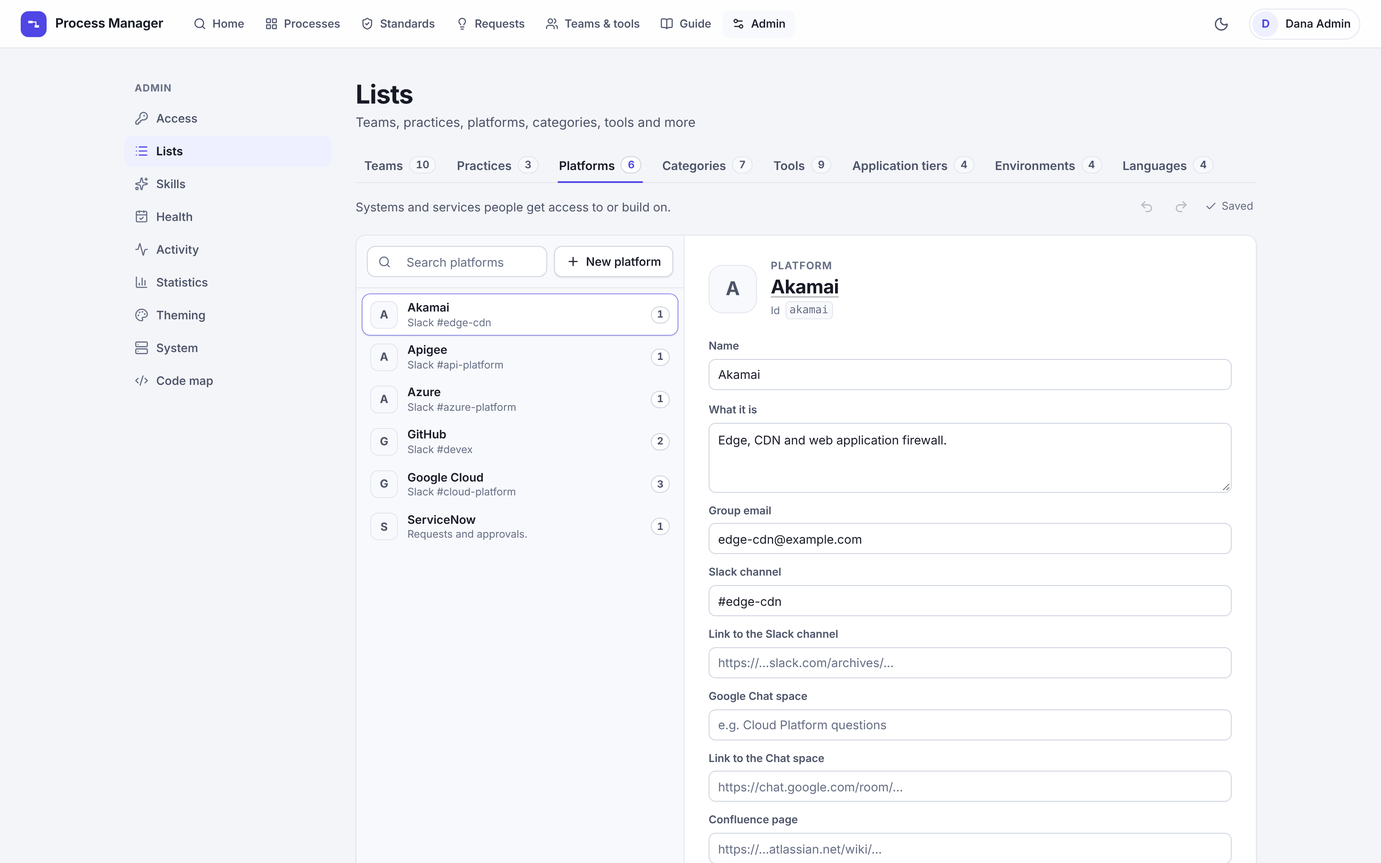
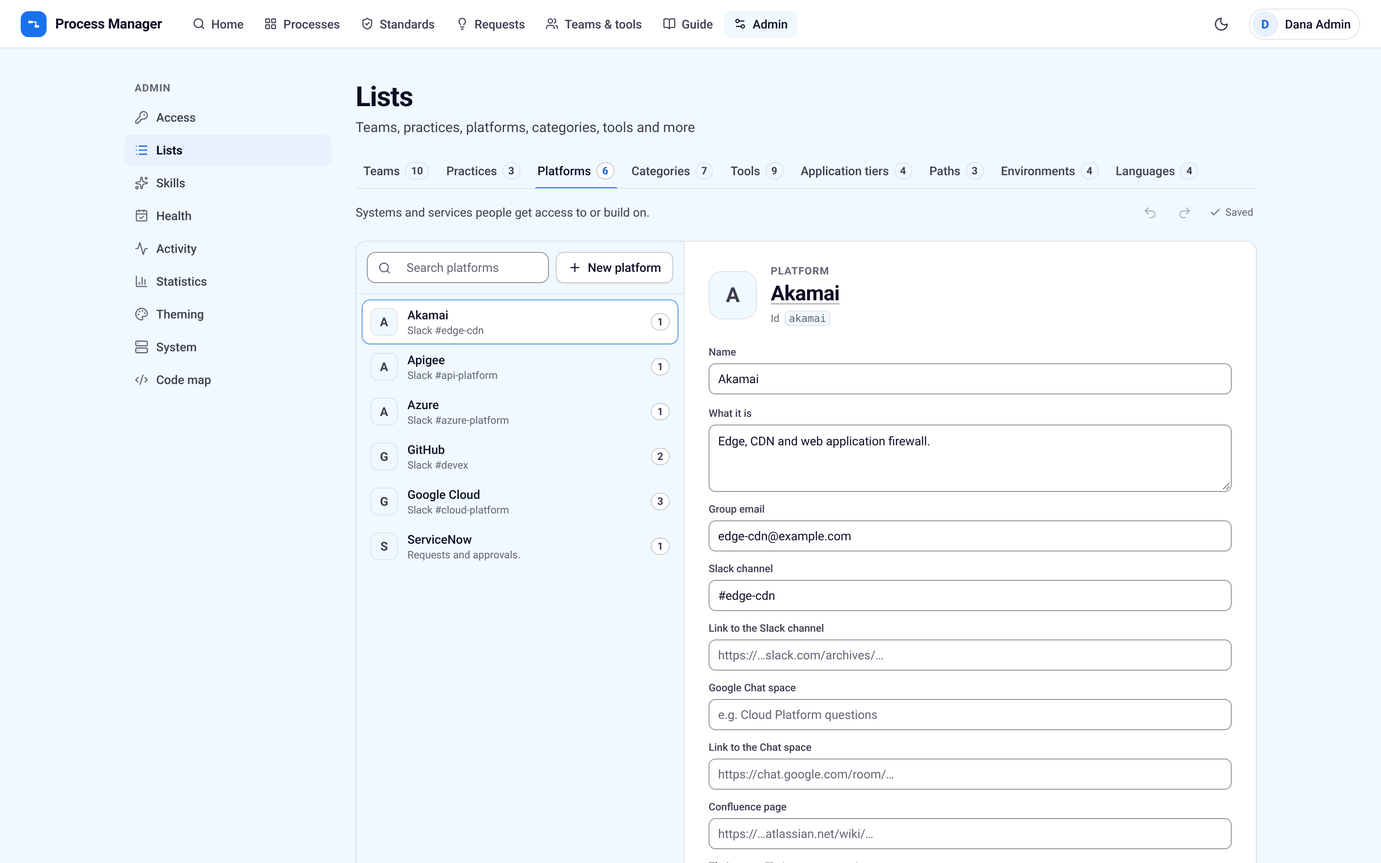
Viewing the portal as another person, the path of a process or standard, the designer's look
An admin can view the portal as any person, or as a reader with no roles: the
server answers every request as that person and refuses every change; a band
says who is viewed; starting and stopping are in Activity.

Processes and standards can name the paths they are meant only for (Greenfield,
Brownfield, Paved path, a ninth managed list with pictures and other names):
shown on cards, rows and the page, a filter, a choice under My application, in
skills, the search by meaning and the MCP server.

The designer's palette and Roboto are the default look, with a fixed type scale
and tints of Ocean and Sky; every colour is managed in Theming and the map
follows the look. Documentation, browser tests and screenshots brought in line.

Claude-Session: https://claude.ai/code/session_011qCrvi8b2eDbxEg6hLHvxQ

diff --git a/src/components/GuidePage.tsx b/src/components/GuidePage.tsx
@@ -255,7 +255,7 @@ export function GuidePage() {
           <dl className="guide-dl">
             <div><dt>Above the name</dt><dd><b>All processes</b>, the way back to the list; the “Process” tag, its category and “Owned by” its team, whose name opens the team’s page; and marks for what needs attention: “Draft”, “Retired”, and for the people who look after it “First review due …” or “Review due …” in amber, “Review overdue since …” in red.</dd></div>
             <div><dt>The facts</dt><dd>One line under the summary: how binding it is (Mandatory, Recommended or Optional, with its bars; point at it for what that means), the typical time, how many of its steps are yours, such as “5 of 10 steps are yours”, and how many others take part; then the platform and practice it belongs to (each name opens its page) and which <b>application tiers</b>, <b>environments</b> and <b>programming languages</b> it applies to. Use Tier, Environment and Language in the filters of the list to hide what does not apply to you; your choice is remembered.</dd></div>
-            <div><dt>Which path is this for</dt><dd>At the end of the facts. A process made for particular paths shows every path of the portal as a lane of one small road, with its own lanes edged, in bold and ticked (no tick on a phone) and the others drawn in outline; point at a lane for what the path is, and a screen reader hears “This process is for Greenfield and Paved path.” A process that names no path, the usual case, shows one quiet fact instead: a signpost and “Any path”, as it applies whatever the path.</dd></div>
+            <div><dt>Which path is this for</dt><dd>At the end of the facts. A process made for particular paths shows every path of the portal as a lane of one small road on the line of the facts, no taller than the facts beside it, with its own lanes edged, in bold and ticked (no tick on a phone) and the others drawn in outline; the editing screen’s preview shows the same road, and on a phone the pictures of its paths instead (one path also by its name); point at a lane for what the path is, and a screen reader hears “This process is for Greenfield and Paved path.” A process that names no path, the usual case, shows one quiet fact instead: a signpost and “Any path”, as it applies whatever the path.</dd></div>
             <div><dt>A quiet line</dt><dd>“Content changed …”, when what it says last changed (point at it: the list of versions shows every time it was stored, also when it was imported or confirmed in a review); “Reviewed …” with the date of the last review, or “First review due …” while its first review is not near yet, or else “Not reviewed yet” (a review that is due or overdue is already a mark at the top, with its date); and the <b>version</b>: press it to see who changed what and when, by name.</dd></div>
           </dl>
           <p>If you may change the process, or write drafts of it as a member of its platform or practice, the header has <b>Edit</b>, its main button, which opens the editing screen; if you look after it, <b>Mark as reviewed</b> (see <b>Life-cycle and reviews</b>), a quiet button until a review is due or overdue, when it is marked in amber. Nothing else on the page changes the process.</p>
@@ -420,7 +420,7 @@ export function GuidePage() {
             <div><dt>Deleting a step</dt><dd>The bin at the top of its fields deletes it at once, without a question. Just after a step is selected the bin is unavailable for a moment (it looks faded, and pointing at it says “Delete step (available in a moment)”), so a double press cannot delete the next step too. A short message says what happened, with long names cut off, such as “Step “Start the production deployme…” deleted.”, and offers <b>Undo</b>; Undo on the bar works too. The step that took its place is selected, in the outline, so you can go on with the keyboard. The steps before it are joined to what came after it. An answer of a decision keeps its name: an answer that led to the deleted step now leads where that step led (when it had several ways on, the one that carried the flow on). An answer that led to a deleted step that ended the flow is removed. If two answers then lead to the same step, the checker asks you to let each lead somewhere else.</dd></div>
             <div><dt>What the message says</dt><dd>After a move or a delete, the message also says, one line each, everything else that changed in the flow, and where things go now by the number and name of the step: ““No” of “Is it a tier 0 service?” now goes to step 9 “Start the production deployment”.”, ““Yes” of “Release healthy?” is removed: it led to the deleted step, which ended the flow.”, ““Other” of “Change approved?” is new: it goes to step 6 “Roll out to 10%”.”, “Nothing leads to step 4 “Fix the request” any more.” or ““Close the change record” now leads to step 14 “Change approved?”.” It shows at most three such lines; beyond that the third says “And 2 more: see “What comes next” of the steps on the map.” Only one message is shown at a time: a new one replaces the one before, and they end when you leave the editing screen.</dd></div>
             <div><dt>About</dt><dd>Name and summary, owning team and typical lead time. Below, folded, each with a line that says what is set: <b>What it belongs to</b> (category, platform, practice) and how binding it is; <b>Which path it is for</b>; <b>Where it applies</b> (tiers, environments, languages) and tags; and <b>Review</b>, the review rhythm. A folded group opens by itself when the checker finds something to fix in it.</dd></div>
-            <div><dt>Which path it is for</dt><dd>Chips with the picture of each path, like the tiers: <b>Any path</b> and one per path. Choose a path only when the process is meant only for that kind of work, such as setting up something new, or when it is itself the ready-made way; something everyone follows names none, which is the usual case and means it applies whatever the path. A process that names a path is hidden from readers whose application is on another path. Folded, the line shows the chosen pictures with their names, or “Any path”; what readers will see shows the road, or “Any path”, under the name. The same section is under About of a standard.</dd></div>
+            <div><dt>Which path it is for</dt><dd>Chips with the picture of each path, like the tiers: <b>Any path</b> and one per path. Choose a path only when the process is meant only for that kind of work, such as setting up something new, or when it is itself the ready-made way; something everyone follows names none, which is the usual case and means it applies whatever the path. A process that names a path is hidden from readers whose application is on another path. Folded, the line shows the chosen pictures with their names, or “Any path”; what readers will see shows the road, or “Any path”, on the line of the facts under the name (on a phone the pictures of the paths, one path also by its name). The same section is under About of a standard.</dd></div>
             <div><dt>The other parts</dt><dd><b>Before you start</b>: the prerequisites, each with a name and a few words about it, in boxes that grow with the text, and possibly provided by another process; Enter in a name adds the next, Backspace in an empty one removes it. <b>Who takes part</b>: the lanes, the first always the reader; each participant has a name and a few words about them, in a box that grows with the text, and under them how many steps they have, the arrows to move them a lane higher or lower on the map, and <b>Remove</b>; a lane that still has steps cannot be removed. <b>Links and resources</b>, each link a block with its number, its kind and a cross to remove it (“Remove this link”) on top, then <b>Name</b>, <b>Address</b> and <b>What it does for the reader</b>, whose labels stay when the field is filled in; and <b>Standards it helps to meet</b>. Readers see both under “Before you start”.</dd></div>
           </dl>
         </Section>

diff --git a/src/components/FlowView.tsx b/src/components/FlowView.tsx
@@ -73,6 +73,34 @@ export function FlowView({ process, selectedId, done, feedback, onSelect, onInse
   const [drag, setDrag] = useState<string | null>(null);
   const [dropLane, setDropLane] = useState<string | null>(null);
   const scroller = useRef<HTMLDivElement>(null);
+  // The hint gives way first when the legend and the tools need its room: its words go (they stay its
+  // tooltip), the hand stays. Worked out from the room the line has, so that it does not flicker.
+  const hint = useRef<HTMLSpanElement>(null);
+  useLayoutEffect(() => {
+    const el = hint.current, head = el?.parentElement;
+    if (!el || !head || typeof ResizeObserver === "undefined") return;
+    const check = () => {
+      if (!el.hasAttribute("data-cut")) el.dataset.full = String(el.scrollWidth);
+      const cs = getComputedStyle(head);
+      const gap = parseFloat(cs.columnGap) || 0;
+      let others = 0, n = 0;
+      for (const c of Array.from(head.children) as HTMLElement[]) {
+        if (c === el) continue;
+        n++;
+        if (c.classList.contains("legend")) {
+          // the legend as it is on one line
+          const items = Array.from(c.children) as HTMLElement[], g = parseFloat(getComputedStyle(c).columnGap) || 0;
+          others += items.reduce((sum, i) => sum + i.getBoundingClientRect().width, 0) + g * Math.max(0, items.length - 1);
+        } else others += c.getBoundingClientRect().width;
+      }
+      const room = head.clientWidth - (parseFloat(cs.paddingLeft) || 0) - (parseFloat(cs.paddingRight) || 0) - others - gap * n;
+      el.toggleAttribute("data-cut", room < Number(el.dataset.full || 0));
+    };
+    check();
+    const ro = new ResizeObserver(check);
+    ro.observe(head);
+    return () => ro.disconnect();
+  });
   const [panning, setPanning] = useState(false);
   // Dragging the map with the mouse moves it around (a picture too). Touch screens scroll it
   // natively, in both directions; a picture is as high as its drawing, so a swipe up or down
@@ -341,8 +369,9 @@ export function FlowView({ process, selectedId, done, feedback, onSelect, onInse
             <span className="kbd">+</span> on an arrow inserts a step{touch ? "" : " · drag a block to another lane"} · <span className="flow-tip-loop"><svg width="20" height="8" aria-hidden="true"><path d="M0,4 H20" className="edge back" /></svg>loop back</span>
           </p>
         </>)}
+        {/* the hint stands on its own between the legend and the tools, so that it can give way first (styles.css) */}
+        {picture !== "print" && legend && picture !== "inline" && <span ref={hint} className="map-pan-hint" title={touch ? `${panHint(true).move} · ${panHint(true).zoom}` : `Drag to move · ${zoomKey()} + scroll to zoom`}><Hand size={14} aria-hidden="true" /><span className="map-pan-words">{touch ? `${panHint(true).move} · ${panHint(true).zoom}` : <>Drag to move · <kbd className="key">{zoomKey()}</kbd> + scroll to zoom</>}</span></span>}
         {picture !== "print" && <div className="map-tools">
-          {legend && picture !== "inline" && <span className="map-pan-hint"><Hand size={14} aria-hidden="true" />{touch ? `${panHint(true).move} · ${panHint(true).zoom}` : <>Drag to move · <kbd className="key">{zoomKey()}</kbd> + scroll to zoom</>}</span>}
           <div className="zoom" role="group" aria-label="Zoom" title={picture === "inline" ? (touch ? `${panHint(true).move} · ${panHint(true).zoom}` : `Drag to move · ${zoomKey()} + scroll to zoom`) : undefined}>
             <button className="btn small ghost" onClick={() => fit()} title="Show the whole flow"><Maximize2 size={14} />Fit</button>
             <button className="icon-btn" onClick={() => step(-1)} aria-label="Zoom out"><Minus size={16} /></button>

diff --git a/src/components/Lists.tsx b/src/components/Lists.tsx
@@ -113,7 +113,7 @@ export const nothingToChoose = (options: Option[]) => options.length > 0 && opti
  * arrows move between the options; Escape closes it and returns to the button. When no option
  * would give anything, it says why (`empty`) instead of showing options that cannot be used.
  */
-export function FilterDropdown({ name, label, options, onToggle, atLeast, single, hint, empty }: {
+export function FilterDropdown({ name, label, options, onToggle, atLeast, single, hint, empty, within }: {
   name: string; label?: string; options: Option[]; onToggle: (value: string) => void; atLeast?: boolean;
   /** One choice of all (radio buttons), as "My application" is one application. */
   single?: boolean;
@@ -121,6 +121,8 @@ export function FilterDropdown({ name, label, options, onToggle, atLeast, single
   hint?: string;
   /** Why there is nothing to choose, when no option would give anything. */
   empty?: string;
+  /** Where the list stands, said first in the button's name when the same list stands twice ("My application"). */
+  within?: string;
 }) {
   const [open, setOpen] = useState(false);
   const [focusFirst, setFocusFirst] = useState(false);
@@ -154,7 +156,7 @@ export function FilterDropdown({ name, label, options, onToggle, atLeast, single
   return (
     <div className={`filter-dd ${open ? "open" : ""} ${n ? "chosen" : ""} ${dead ? "nothing" : ""}`.trim()} data-filter={name}>
       <button ref={button} type="button" className="filter-dd-button" aria-expanded={open} aria-controls={`${id}-list`}
-        aria-label={`${title}: ${summary}`} onClick={() => setOpen(!open)} onKeyDown={onButtonKey}>
+        aria-label={`${within ? `${within}, ` : ""}${title}: ${summary}`} onClick={() => setOpen(!open)} onKeyDown={onButtonKey}>
         <span className="filter-dd-name">{title}</span>
         <span className="filter-dd-value">{summary}</span>
         {n > 1 && <span className="filter-dd-n" aria-hidden="true">{n}</span>}
@@ -259,7 +261,7 @@ export function FilterPanel({ id, open, keys, labels, options, onToggle, flags, 
           <div className="filter-rows">
             {shownKeys.map((k) => (
               <FilterDropdown key={k} name={k} label={labels?.[k] ?? (k === "rigour" ? rigourFilterName(subject) : undefined)} options={named(k)} onToggle={(v) => onToggle(k, v)} atLeast={atLeast} hint={FILTER_HINT[k]}
-                empty={emptyFilterText(k, subject, total)} />
+                empty={emptyFilterText(k, subject, total)} within={hasApp && (PROFILE_KEYS as readonly string[]).includes(k) ? "Narrow down" : undefined} />
             ))}
           </div>
         </div>
@@ -279,7 +281,7 @@ export function FilterPanel({ id, open, keys, labels, options, onToggle, flags, 
               <p className="filter-profile-note">Shows only what applies to your application, here and on every process and standard. Remembered in this browser.</p>
               <div className="filter-rows">
                 {PROFILE_KEYS.map((k) => (
-                  <FilterDropdown key={k} name={k} label={PROFILE_LABEL[k]} options={profileOptions[k] ?? []} single hint={PROFILE_HINT[k]}
+                  <FilterDropdown key={k} name={k} label={PROFILE_LABEL[k]} options={profileOptions[k] ?? []} single hint={PROFILE_HINT[k]} within={shownKeys.includes(k as never) ? "My application" : undefined}
                     onToggle={(v) => setProfile(k, v)} atLeast={atLeast} empty={emptyFilterText(k, subject, total)} />
                 ))}
               </div>

diff --git a/e2e/paths.spec.ts b/e2e/paths.spec.ts
@@ -228,7 +228,7 @@ test("the Path filter: made for a path, or not tied to one; in the address, and 
   await signIn(page, SAM);
   await open(page, "/processes");
   const panel = page.getByRole("complementary", { name: "Filters" });
-  const button = panel.locator(".filter-dds").getByRole("button", { name: /^Path:/ });
+  const button = panel.locator(".filter-dds").getByRole("button", { name: /^(?:Narrow down, )?Path:/ });
   await button.click();
   const list = button.locator("xpath=..").locator(".filter-dd-list");
   await expect(list.locator(".filter-dd-hint")).toHaveText("Shows what is made for the path you choose; what is for any path is left out. To see everything that applies to your application's path, choose it under My application.");
@@ -250,12 +250,12 @@ test("the Path filter: made for a path, or not tied to one; in the address, and 
   await other.goto("/#/processes?path=paved-path");
   await expect(other.locator(".card .card-title")).toHaveCount(4);
   expect((await other.locator(".card .card-title").allInnerTexts()).sort()).toEqual(["Onboard an API to Apigee", "Request a GCP project", "Request a repository", "Request an Azure landing zone"]);
-  await expect(other.getByRole("complementary", { name: "Filters" }).locator(".filter-dds").getByRole("button", { name: /^Path:/ })).toHaveAccessibleName(/^Path: Made for Paved path/);
+  await expect(other.getByRole("complementary", { name: "Filters" }).locator(".filter-dds").getByRole("button", { name: /^Narrow down, Path:/ })).toHaveAccessibleName(/^Narrow down, Path: Made for Paved path/);
   // in the search, the same filter from the address
   await other.goto("/#/search?q=gcp&path=paved-path");
   await expect(other.locator(".card .card-title")).toHaveCount(2); // Infrastructure as code, found for "gcp" too, names no path
   expect((await other.locator(".card .card-title").allInnerTexts()).sort()).toEqual(["Onboard an API to Apigee", "Request a GCP project"]);
-  await expect(other.getByRole("complementary", { name: "Filters" }).locator(".filter-dds").getByRole("button", { name: /^Path:/ })).toHaveAccessibleName(/^Path: Made for Paved path/);
+  await expect(other.getByRole("complementary", { name: "Filters" }).locator(".filter-dds").getByRole("button", { name: /^Narrow down, Path:/ })).toHaveAccessibleName(/^Narrow down, Path: Made for Paved path/);
   await other.close();
 });
 
@@ -265,7 +265,7 @@ test("My application › Path hides what is made only for other paths and keeps 
   await expect(titles(page)).toHaveCount(7);
   await openApplication(page);
   const app = page.getByRole("complementary", { name: "Filters" }).locator(".filter-app");
-  const path = app.getByRole("button", { name: /^Path:/ });
+  const path = app.getByRole("button", { name: /^My application, Path:/ });
   await path.click();
   await expect(path.locator("xpath=..").locator(".filter-dd-hint")).toHaveText("Shows what applies to an application on this path: what is made for it and what is for any path. What is made only for other paths is hidden.");
   await path.click();

diff --git a/src/styles.css b/src/styles.css
@@ -359,9 +359,19 @@ a.btn { color: var(--action-other, var(--accent)); }
 .block.done .block-num { background: var(--good-fill); color: var(--good-ink); }
 .block-add { position: absolute; right: -12px; top: 50%; margin-top: -12px; width: 24px; height: 24px; display: grid; place-items: center; border-radius: 50%; background: var(--accent-fill, var(--accent)); color: var(--accent-ink); box-shadow: var(--shadow-2); opacity: 0; transform: scale(.7); transition: opacity .12s, transform .12s; z-index: 5; }
 .block:hover .block-add, .block-add:focus-visible { opacity: 1; transform: scale(1); }
-.flow-head { display: flex; align-items: center; justify-content: space-between; flex-wrap: wrap; gap: 8px 16px; padding: 8px 10px 8px 14px; border-bottom: 1px solid var(--line); background: var(--surface); }
-.map-tools { display: flex; align-items: center; gap: 12px; margin-left: auto; }
-.legend { display: flex; flex-wrap: wrap; gap: 6px 14px; }
+/* The legend and the tools share one line. When it is short of room, the hint ("Drag to move · Ctrl + scroll
+   to zoom") gives way first, being help: its words go and its hand stays, with the words as its tooltip
+   (FlowView works out the room). Fit and the zoom never give way; only then does the legend wrap, and no
+   kind of step is ever left out. */
+.flow-head { display: flex; align-items: center; justify-content: space-between; flex-wrap: nowrap; gap: 8px 16px; padding: 8px 10px 8px 14px; border-bottom: 1px solid var(--line); background: var(--surface); }
+.map-tools { display: flex; align-items: center; gap: 12px; margin-left: auto; flex: none; }
+.flow-head > .map-pan-hint { flex: none; margin-left: auto; }
+.flow-head > .map-pan-hint + .map-tools { margin-left: 0; }
+/* without room for its words (FlowView works it out), the hint is its hand alone, the words its tooltip */
+.flow-head > .map-pan-hint[data-cut] .map-pan-words { display: none; }
+.flow-head > .map-pan-hint[data-cut] > svg { margin-right: 0; }
+.flow-head > .legend { flex: 0 0.001 auto; min-width: 0; }
+.legend { display: flex; flex-wrap: wrap; gap: 6px 12px; }
 .legend-item { display: inline-flex; align-items: center; gap: 6px; font-size: var(--fs-sm); line-height: var(--lh-sm); color: var(--text-2); }
 .zoom { display: flex; align-items: center; gap: 2px; flex: none; }
 .zoom-val { width: 46px; text-align: center; font-size: var(--fs-sm); line-height: var(--lh-sm); font-weight: var(--fw-medium); color: var(--text-2); font-variant-numeric: tabular-nums; }

diff --git a/src/paths.css b/src/paths.css
@@ -108,9 +108,29 @@
 /* a chip of the editing screen: the picture before the name, in its own tint, also when chosen */
 .chip .path-symbol { display: inline-block; vertical-align: -3px; margin-right: 5px; color: var(--path-c, currentColor); }
 
-/* the reader's page and the editing preview: the road on the line of facts, at its end when there is room */
-.doc-facts .path-road, .preview-facts .path-road { margin-left: auto; }
-.preview-facts .path-road { margin-left: 0; flex-basis: 100%; }
+/* ---------- the compact road: on the line of the facts, no taller than the facts beside it (20 px, --lh-md).
+   The lanes sit on the line's own height: a small picture without its plate, the name, the edge and the tick of
+   a marked lane kept. The plated form (above) stays for a place with a line of its own. */
+.path-road.compact { flex-wrap: nowrap; gap: 8px; }
+.path-road.compact .path-lanes { flex-wrap: nowrap; padding: 1px; border-radius: 7px; }
+.path-road.compact .path-lane { gap: 4px; height: 18px; padding: 0 7px 0 4px; border-radius: 6px; }
+.path-road.compact .path-lane .path-plate { width: 14px; height: 14px; border-radius: 4px; background: none; box-shadow: none; }
+.path-road.compact .path-lane .path-symbol { width: 14px; height: 14px; }
+.path-road.compact .path-lane + .path-lane::before { top: 3px; bottom: 3px; }
+.path-road.compact .path-check { width: 12px; height: 12px; margin-left: 0; }
+/* the reader's page: the road at the end of the line of facts when there is room; on a phone it may wrap its lanes, and keeps their names */
+.doc-facts .path-road { margin-left: auto; }
+@media (max-width: 599px) {
+  .doc-facts .path-road.compact, .doc-facts .path-road.compact .path-lanes { flex-wrap: wrap; }
+  .doc-facts .path-road.compact .path-lane { height: auto; min-height: 18px; }
+}
+/* the editing preview: the compact road on the line of facts; on a phone the plates of its paths (one named) instead */
+.preview-facts .path-road { margin-left: 0; }
+.preview-path-marks { display: none; }
+@media (max-width: 599px) {
+  .preview-facts figure.path-road { display: none; }
+  .preview-path-marks { display: inline-flex; }
+}
 
 /* the picker of a picture in Admin › Lists, with the name of the picture pointed at, focused or chosen under it */
 .symbol-picker { display: flex; flex-wrap: wrap; gap: 6px; }

diff --git a/src/components/Governance.tsx b/src/components/Governance.tsx
@@ -7,7 +7,7 @@ import { usePerms } from "../lib/session";
 import type { Profile } from "../lib/edit";
 import { quietReview, statusOf, type ReviewInfo } from "../lib/lifecycle";
 import { Field } from "./ui";
-import { Fact, KindTag, PathRoad, PathSymbolIcon } from "./marks";
+import { Fact, KindTag, PathMarks, PathRoad, PathSymbolIcon } from "./marks";
 import { VersionTag } from "./Editing";
 import { GroupLink, OwnedBy } from "./GroupParts";
 import { formatDate } from "../lib/dates";
@@ -186,7 +186,9 @@ export function PreviewFacts({ kind, doc, children }: { kind: TargetKind; doc: G
       {!doc.owner && <span className="preview-owner none">{kind === "process" ? "No owning team yet" : "Not issued by a team yet"}</span>}
       {children}
       <WhereFacts doc={doc} />
-      <PathRoad ids={doc.paths} paths={catalog.paths} kind={kind} />
+      {/* the compact road on the line of the facts; on a phone, where it would need a line of its own, the plates instead */}
+      <PathRoad ids={doc.paths} paths={catalog.paths} kind={kind} className="compact preview-road" />
+      <PathMarks ids={doc.paths} catalog={catalog} named={Array.isArray(doc.paths) && doc.paths.length === 1} className="preview-path-marks" />
     </span>
   );
 }
@@ -228,7 +230,7 @@ export function DocHead({ kind, doc, meta, review, facts, actions, notice, onBac
         {actions && <div className="head-actions">{actions}</div>}
       </div>
       {notice && <div className="doc-notices">{notice}</div>}
-      <div className="doc-facts">{facts}<WhereFacts doc={doc} links /><PathRoad ids={doc.paths} paths={catalog.paths} kind={kind} /></div>
+      <div className="doc-facts">{facts}<WhereFacts doc={doc} links /><PathRoad ids={doc.paths} paths={catalog.paths} kind={kind} className="compact" /></div>
       <div className="doc-foot">
         <p className="doc-when">
           {doc.updatedAt && <span className="doc-changed" title="When what it says last changed. Versions lists every time it was stored: saved, imported or confirmed in a review.">Content changed {formatDate(doc.updatedAt)}</span>}

diff --git a/src/detail.css b/src/detail.css
@@ -92,7 +92,8 @@
 @media (max-width: 999px) { .map-hint { margin-left: 0; padding-top: 8px; white-space: normal; } }
 .map-hint > svg { color: var(--accent); flex: none; }
 .map-hint b { color: var(--text); font-weight: var(--fw-strong); }
-.map-pan-hint { display: inline-flex; align-items: center; gap: 6px; color: var(--text-3); font-size: var(--fs-sm); line-height: var(--lh-sm); white-space: nowrap; }
+.map-pan-hint { display: block; flex: none; overflow: hidden; color: var(--text-3); font-size: var(--fs-sm); line-height: var(--lh-sm); white-space: nowrap; }
+.map-pan-hint > svg { display: inline-block; vertical-align: -2px; margin-right: 6px; }
 kbd.key { display: inline-block; padding: 0 5px; border: 1px solid var(--line-strong); border-bottom-width: 2px; border-radius: 5px; font-family: inherit; font-weight: var(--fw-medium); font-size: var(--fs-sm); line-height: var(--lh-sm); color: var(--text-2); background: var(--surface); }
 @media (max-width: 700px) { .map-pan-hint { display: none; } }
 .flow-scroll.pannable { cursor: grab; }

diff --git a/e2e/helpers.ts b/e2e/helpers.ts
@@ -303,7 +303,7 @@ export async function openApplication(page: Page) {
  */
 export async function pickFilter(page: Page, filter: string, option: string | RegExp, where: "filters" | "application" = ["Tier", "Environment", "Language"].includes(filter) ? "application" : "filters") {
   const panel = page.getByRole("complementary", { name: "Filters" });
-  const button = panel.locator(where === "application" ? ".filter-app" : ".filter-dds").getByRole("button", { name: new RegExp(`^${filter}:`) });
+  const button = panel.locator(where === "application" ? ".filter-app" : ".filter-dds").getByRole("button", { name: new RegExp(`^(?:${where === "application" ? "My application" : "Narrow down"}, )?${filter}:`) });
   await openApplication(page);
   if ((await button.getAttribute("aria-expanded")) !== "true") await button.click();
   const name = typeof option === "string" ? new RegExp(`^${esc(option)}, \\d+ results?$`) : option;

diff --git a/src/picture.css b/src/picture.css
@@ -18,6 +18,7 @@
 
 @media (max-width: 600px) {
   /* the legend wraps above the tools; the tools stay on one line */
+  .flow-wrap.picture .flow-head { flex-wrap: wrap; }
   .flow-wrap.picture .map-tools { margin-left: 0; }
 }
 

diff --git a/README.md b/README.md
@@ -31,6 +31,8 @@ From both, the portal generates **skills for AI coding assistants** and, for sta
 
 ![Publishing a change](docs/publish.png)
 
+![A process that is for one path, with all paths of the list as lanes](docs/path.png)
+
 ## Run it locally
 
 You need Node 22, Go 1.26 and Docker.
@@ -137,6 +139,10 @@ The first admins are named in the server setting `PM_ADMINS`.
 ![Admin panel](docs/admin.png)
 
 ![The roles of one person](docs/roles.png)
+
+![An admin viewing the portal as another person: the band, and what would change something greyed](docs/view-as.png)
+
+![Admin › Lists: the paths, with their pictures and other names](docs/paths-list.png)
 
 ![Admin › Theming with its preview](docs/theming.png)
 
